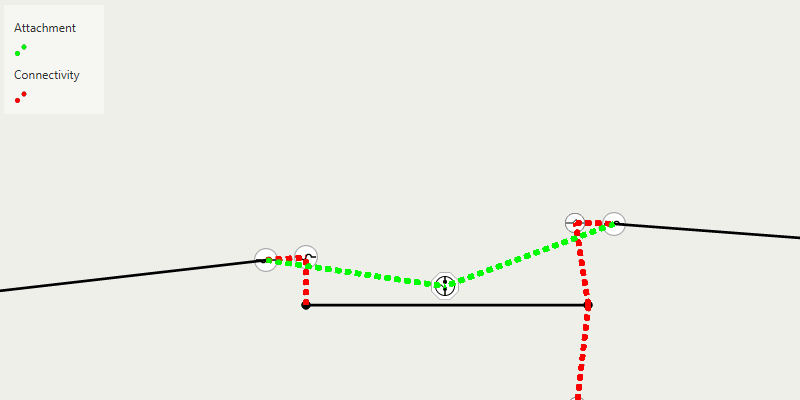
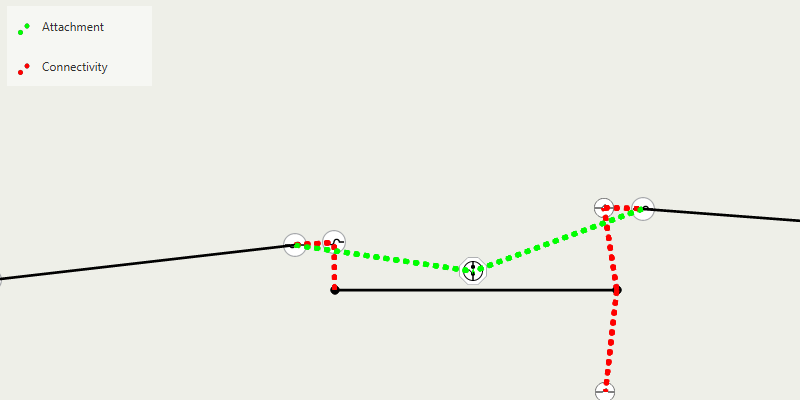
added suggested changes
added grid pane , made changes in comments , singletonList in place of arrays.asList  and other minor changes

Changed region(s): [[0.0, 0.51, 1.0, 1.0], [0.0, 0.15, 0.125, 0.21], [0.0, 0.06, 0.125, 0.09]]

diff --git a/utility_network/display-utility-associations/src/main/resources/display_utility_associations/style.css b/utility_network/display-utility-associations/src/main/resources/display_utility_associations/style.css
@@ -1,4 +1,8 @@
-.panel-region .label {
-  -fx-text-fill: white;
+.grid-pane {
+  -fx-padding: 10;
+  -fx-background-color: rgba(255,255,255,0.5);
+  -fx-max-height: 80;
+  -fx-max-width: 100;
+  -fx-vgap: 20;
+  -fx-alignment: center;
 }
-

diff --git a/utility_network/display-utility-associations/src/main/java/com/esri/samples/display_utility_associations/DisplayUtilityAssociationsSample.java b/utility_network/display-utility-associations/src/main/java/com/esri/samples/display_utility_associations/DisplayUtilityAssociationsSample.java
@@ -1,21 +1,22 @@
 /*
-  * Copyright 2020 Esri.
-  * Licensed under the Apache License, Version 2.0 (the "License");
-  * you may not use this file except in compliance with the License.
-  * You may obtain a copy of the License at
-  *
-  * http://www.apache.org/licenses/LICENSE-2.0
-  *
-  * Unless required by applicable law or agreed to in writing, software
-  * distributed under the License is distributed on an "AS IS" BASIS,
-  * WITHOUT WARRANTIES OR CONDITIONS OF ANY KIND, either express or implied.
-  * See the License for the specific language governing permissions and
-  * limitations under the License.
-  */
-  
+* Copyright 2020 Esri.
+* Licensed under the Apache License, Version 2.0 (the "License");
+* you may not use this file except in compliance with the License.
+* You may obtain a copy of the License at
+*
+* http://www.apache.org/licenses/LICENSE-2.0
+*
+* Unless required by applicable law or agreed to in writing, software
+* distributed under the License is distributed on an "AS IS" BASIS,
+* WITHOUT WARRANTIES OR CONDITIONS OF ANY KIND, either express or implied.
+* See the License for the specific language governing permissions and
+* limitations under the License.
+*/
+
 package com.esri.samples.display_utility_associations;
 
 import java.util.Arrays;
+import java.util.Collections;
 import java.util.List;
 import java.util.Map;
 import java.util.concurrent.ExecutionException;
@@ -50,8 +51,8 @@ import com.esri.arcgisruntime.utilitynetworks.UtilityNetworkSource;
 
 public class DisplayUtilityAssociationsSample extends Application {
   
-  private MapView mapView;
   private GraphicsOverlay associationsOverlay;
+  private MapView mapView;
   private UtilityNetwork utilityNetwork;
   
   @Override
@@ -61,9 +62,10 @@ public class DisplayUtilityAssociationsSample extends Application {
       // create stack pane and application scene
       StackPane stackPane = new StackPane();
       Scene scene = new Scene(stackPane);
-      
+      scene.getStylesheets().add(getClass().getResource("/display_utility_associations/style.css").toExternalForm());
+  
       // set title, size, and add scene to stage
-      stage.setTitle("Display Utility Association Sample");
+      stage.setTitle("Display Utility Associations Sample");
       stage.setWidth(800);
       stage.setHeight(700);
       stage.setScene(scene);
@@ -82,13 +84,13 @@ public class DisplayUtilityAssociationsSample extends Application {
       SimpleLineSymbol connectivitySymbol = new SimpleLineSymbol(SimpleLineSymbol.Style.DOT, 0xFFFF0000, 5);
   
       // add the attachment symbol to the image view to display it in the legend
-      ListenableFuture<Image> attachmentImage  = attachmentSymbol.createSwatchAsync(0x00000000);
+      ListenableFuture<Image> attachmentImage = attachmentSymbol.createSwatchAsync(0x00000000);
       attachmentImage.addDoneListener(() -> {
         try {
-          // display the image view in the preview area
-          attachmentImageView.setImage(attachmentImage .get());
+          // display the image in the image view
+          attachmentImageView.setImage(attachmentImage.get());
         } catch (InterruptedException | ExecutionException e) {
-          new Alert(Alert.AlertType.ERROR, "Error creating preview ImageView from provided attachmentSymbol" + e.getMessage()).show();
+          new Alert(Alert.AlertType.ERROR, "Error creating preview ImageView from provided attachmentSymbol").show();
         }
       });
   
@@ -96,30 +98,37 @@ public class DisplayUtilityAssociationsSample extends Application {
       ListenableFuture<Image> connectivityImage = connectivitySymbol.createSwatchAsync(0x00000000);
       connectivityImage.addDoneListener(() -> {
         try {
-          // display the image view in the preview area
+          // display the image in the image view
           connectivityImageView.setImage(connectivityImage.get());
         } catch (InterruptedException | ExecutionException e) {
-          new Alert(Alert.AlertType.ERROR, "Error creating preview ImageView from provided connectivitySymbol" + e.getMessage()).show();
+          new Alert(Alert.AlertType.ERROR, "Error creating preview ImageView from provided connectivitySymbol").show();
         }
       });
   
-      // Create a renderer for the associations
-      UniqueValueRenderer.UniqueValue attachmentUniqueValue  = new UniqueValueRenderer.UniqueValue("Attachment", "", attachmentSymbol, Arrays.asList(UtilityAssociationType.ATTACHMENT.toString()));
-      UniqueValueRenderer.UniqueValue connectivityUniqueValue  = new UniqueValueRenderer.UniqueValue("Connectivity", "", connectivitySymbol, Arrays.asList(UtilityAssociationType.CONNECTIVITY.toString()));
+      // create a unique value for each association type with the created symbols
+      UniqueValueRenderer.UniqueValue attachmentUniqueValue = new UniqueValueRenderer.UniqueValue(
+        "Attachment", "", attachmentSymbol, Collections.singletonList(UtilityAssociationType.ATTACHMENT.toString()));
+      UniqueValueRenderer.UniqueValue connectivityUniqueValue = new UniqueValueRenderer.UniqueValue(
+        "Connectivity", "", connectivitySymbol, Collections.singletonList(UtilityAssociationType.CONNECTIVITY.toString()));
   
-      // create a graphics overlay for associations
+      // create a unique value renderer using the values
+      UniqueValueRenderer uniqueValueRenderer = new UniqueValueRenderer(
+        Collections.singletonList("AssociationType"), Arrays.asList(attachmentUniqueValue, connectivityUniqueValue), "", null);
+      
+      // create a graphics overlay for the associations and set the renderer
       associationsOverlay = new GraphicsOverlay();
-      associationsOverlay.setRenderer(new UniqueValueRenderer(Arrays.asList("AssociationType"), Arrays.asList(attachmentUniqueValue, connectivityUniqueValue), "", null));
+      associationsOverlay.setRenderer(uniqueValueRenderer);
   
       // create a map with the topographic vector basemap
       ArcGISMap map = new ArcGISMap(Basemap.createTopographicVector());
       
-      // create a viewpoint to focus on the utility networks'extent
+      // create a viewpoint to focus on the utility networks' extent
       Viewpoint viewPoint = new Viewpoint(41.8057655, -88.1489692, 23);
   
-      // set initial arcgis map extent
+      // set the initial viewpoint
       map.setInitialViewpoint(viewPoint);
-      // create a map view and set its map
+      
+      // create a map view, set the map, and add the graphics overlay
       mapView = new MapView();
       mapView.setMap(map);
       mapView.getGraphicsOverlays().add(associationsOverlay);
@@ -127,13 +136,13 @@ public class DisplayUtilityAssociationsSample extends Application {
       // create the utility network
       utilityNetwork = new UtilityNetwork("https://sampleserver7.arcgisonline.com/arcgis/rest/services/UtilityNetwork/NapervilleElectric/FeatureServer");
   
-      // load utility network async and get all of the edges and junctions in the network
+      // load the utility network and get all of the edges and junctions in the network
       utilityNetwork.loadAsync();
       utilityNetwork.addDoneLoadingListener(() -> {
         List<UtilityNetworkSource> networkSources = utilityNetwork.getDefinition().getNetworkSources();
-    
+  
         for (UtilityNetworkSource nSource : networkSources)
-          // check an add all edges that are not subnet lines to the map.
+          // add all edges that are not subnet lines to the map
           if (nSource.getSourceType() == UtilityNetworkSource.Type.EDGE && nSource.getSourceUsageType() != UtilityNetworkSource.UsageType.SUBNET_LINE) {
             mapView.getMap().getOperationalLayers().add(new FeatureLayer(nSource.getFeatureTable()));
           }
@@ -141,30 +150,26 @@ public class DisplayUtilityAssociationsSample extends Application {
           else if (nSource.getSourceType() == UtilityNetworkSource.Type.JUNCTION) {
             mapView.getMap().getOperationalLayers().add(new FeatureLayer(nSource.getFeatureTable()));
           }
-    
+  
         // add association graphics at the initial view point
         addAssociationsGraphics();
         // listen for navigation changes
-        mapView.addNavigationChangedListener((event) -> {
-          addAssociationsGraphics();
-        });
+        mapView.addNavigationChangedListener(event -> addAssociationsGraphics());
       });
+  
+      // create a legend
+      GridPane gridPane = new GridPane();
+      gridPane.getStyleClass().add("grid-pane");
+      gridPane.getColumnConstraints().addAll(Arrays.asList(new ColumnConstraints(25), new ColumnConstraints(100)));
+      gridPane.add(attachmentImageView, 0, 0);
+      gridPane.add(attachmentLabel, 1, 0);
+      gridPane.add(connectivityImageView, 0, 1);
+      gridPane.add(connectivityLabel, 1, 1);
       
-      // create a controls box
-      VBox controlsVBox = new VBox();
-      controlsVBox.setBackground(new Background(new BackgroundFill(Paint.valueOf("rgba(255,255,255,0.5)"), CornerRadii.EMPTY,
-        Insets.EMPTY)));
-      controlsVBox.setPadding(new Insets(10.0));
-      controlsVBox.setSpacing(5);
-      controlsVBox.setMaxSize(100, 50);
-      controlsVBox.setAlignment(Pos.BASELINE_LEFT);
-      controlsVBox.getStyleClass().add("panel-region");
-      controlsVBox.getChildren().addAll(attachmentLabel, attachmentImageView, connectivityLabel, connectivityImageView);
-      
-      // add the scene view and controls to the stack pane
-      stackPane.getChildren().addAll(mapView, controlsVBox);
-      StackPane.setAlignment(controlsVBox, Pos.TOP_LEFT);
-      StackPane.setMargin(controlsVBox, new Insets(10, 0, 0, 10));
+      // add the map view and legend to the stack pane
+      stackPane.getChildren().addAll(mapView, gridPane);
+      StackPane.setAlignment(gridPane, Pos.TOP_LEFT);
+      StackPane.setMargin(gridPane, new Insets(10, 0, 0, 10));
       
     } catch (Exception e) {
       // on any error, display the stack trace
@@ -185,32 +190,37 @@ public class DisplayUtilityAssociationsSample extends Application {
       // check if the current viewpoint has an extent
       Envelope extent = mapView.getCurrentViewpoint(Viewpoint.Type.BOUNDING_GEOMETRY).getTargetGeometry().getExtent();
       if (extent != null) {
+        
         // get all of the associations in the extent of the viewpoint
         ListenableFuture<List<UtilityAssociation>> associationsFuture = utilityNetwork.getAssociationsAsync(extent);
-  
         associationsFuture.addDoneListener(() -> {
-    
           try {
             List<UtilityAssociation> associations = associationsFuture.get();
-      
+  
+            // iterate through all associations
             associations.forEach(association -> {
+              
               // check if the graphics overlay already contains the association
               if (associationsOverlay.getGraphics().stream().noneMatch(graphic ->
                 graphic.getAttributes().containsKey("GlobalId")
                   && graphic.getAttributes().get("GlobalId") == association.getGlobalId())
                 && association.getGeometry() != null) {
-          
+  
                 // create attributes for the graphic so that the renderers display the appropriate symbol
-                Map<String, Object> attributes = Map.of("GlobalId", association.getGlobalId(), "AssociationType", association.getAssociationType().toString());
+                Map<String, Object> attributes = Map.of(
+                  "GlobalId", association.getGlobalId(),
+                  "AssociationType", association.getAssociationType().toString());
+                
                 // create and add the graphic for the association
                 Graphic newGraphic = new Graphic(association.getGeometry(), attributes);
                 associationsOverlay.getGraphics().add(newGraphic);
               }
+              
             });
           } catch (InterruptedException | ExecutionException e) {
             new Alert(Alert.AlertType.ERROR, "Error " + e.getMessage()).show();
           }
-    
+  
         });
       }
     }
